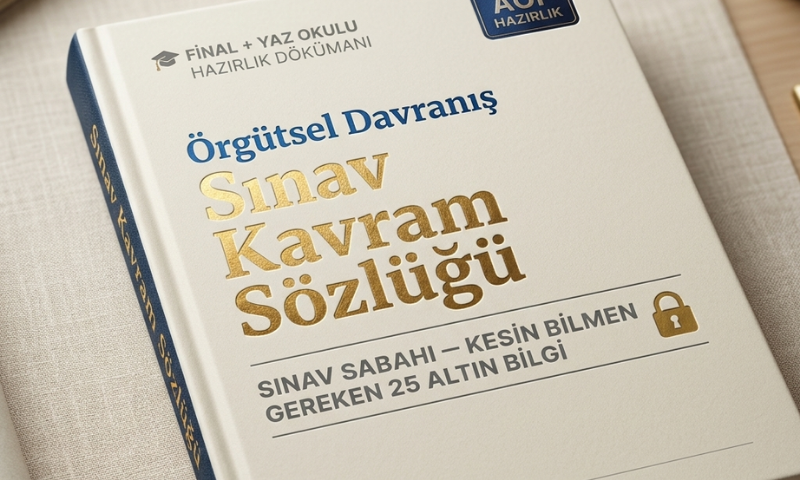
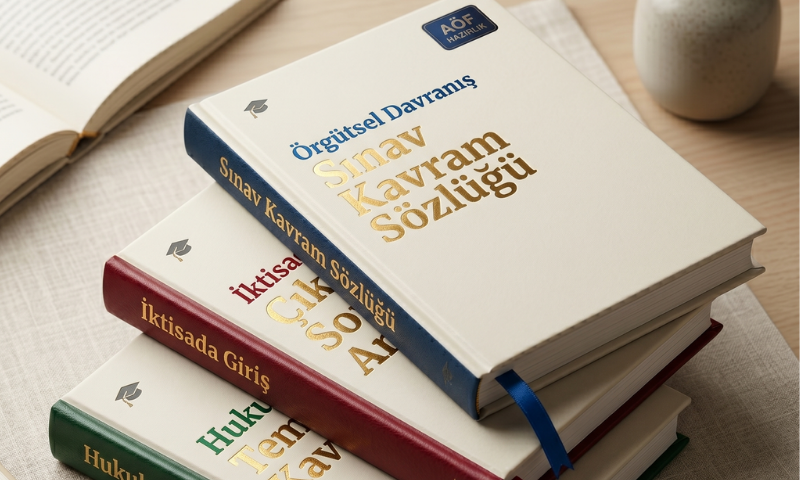
Admin panel and landing page updates

diff --git a/aofnotlar-admin.html b/aofnotlar-admin.html
@@ -369,6 +369,18 @@
       margin-bottom: 24px;
     }
 
+    .dashboard-split-grid {
+      display: grid;
+      grid-template-columns: 1fr 1fr;
+      gap: 20px;
+      margin-bottom: 24px;
+    }
+    @media (max-width: 768px) {
+      .dashboard-split-grid {
+        grid-template-columns: 1fr;
+      }
+    }
+
     .stat-card {
       background: white;
       border-radius: 12px;
@@ -515,6 +527,11 @@
     .badge-gray {
       background: #f3f4f6;
       color: #374151;
+    }
+
+    .badge-blue {
+      background: #eff6ff;
+      color: #1d4ed8;
     }
 
     /* ALERT */
@@ -1049,9 +1066,6 @@
       <button class="nav-item" data-page="feedback" onclick="navigate('feedback', this); closeSidebar()">
         <span class="nav-icon">💬</span> Geri Bildirimler
       </button>
-      <button class="nav-item" data-page="git-setup" onclick="navigate('git-setup', this); closeSidebar()">
-        <span class="nav-icon">🔧</span> Git Kurulum
-      </button>
       <button class="nav-item" data-page="pdf-courses" onclick="navigate('pdf-courses', this); closeSidebar()">
         <span class="nav-icon">📄</span> PDF Arşivi
       </button>
@@ -1100,20 +1114,22 @@
           </div>
         </div>
 
-        <div class="card">
-          <div class="card-title">📅 Son 7 Günlük Cevaplar</div>
-          <div id="activity-list">
-            <div class="empty-state">
-              <div class="empty-icon">⏳</div>Yükleniyor...
+        <div class="dashboard-split-grid">
+          <div class="card">
+            <div class="card-title">📈 Kategoriye Göre Çözülen Soru Sayısı</div>
+            <div id="cat-stats">
+              <div class="empty-state">
+                <div class="empty-icon">⏳</div>Yükleniyor...
+              </div>
             </div>
           </div>
-        </div>
 
-        <div class="card">
-          <div class="card-title">📈 Kategoriye Göre Çözülen Soru Sayısı</div>
-          <div id="cat-stats">
-            <div class="empty-state">
-              <div class="empty-icon">⏳</div>Yükleniyor...
+          <div class="card">
+            <div class="card-title">📅 Günlük Çözüm Detayı</div>
+            <div id="daily-cat-stats">
+              <div class="empty-state">
+                <div class="empty-icon">⏳</div>Yükleniyor...
+              </div>
             </div>
           </div>
         </div>
@@ -1499,111 +1515,7 @@
         </div>
       </div>
 
-      <!-- GIT KURULUM -->
-      <div class="page" id="page-git-setup">
-        <div class="page-header">
-          <div>
-            <div class="page-title">🔧 Git Kurulum</div>
-            <div class="page-subtitle">Kod güncellemeyi kolaylaştır — scp'den kurtar</div>
-          </div>
-        </div>
 
-        <div class="card">
-          <div class="card-title">🎯 Hedef</div>
-          <p style="font-size:13px; color:var(--muted); line-height:1.7;">
-            Şu an her değişiklik için <code>scp</code> kullanıyorsun. Git kurulunca:<br>
-            Mac'te değişiklik yap → <code>git push</code> → sunucu otomatik güncellenir.
-          </p>
-        </div>
-
-        <div class="card">
-          <div class="card-title">1⃣ Sunucuda Git Repo Kur</div>
-          <p style="font-size:12px; color:var(--muted); margin-bottom:8px;">SSH ile sunucuya bağlan ve şu komutları
-            çalıştır:</p>
-
-          <div class="step-row">
-            <span class="step-num">1</span>
-            <div class="step-content">
-              <div class="step-title">Git'i başlat</div>
-              <div class="step-desc">Proje dizinine git, repo oluştur</div>
-              <div class="code-block">cd /var/www/aofnotlar
-                git init
-                git add .
-                git commit -m "ilk commit"<button class="copy-btn" onclick="copyCode(this)">kopyala</button></div>
-            </div>
-          </div>
-
-          <div class="step-row">
-            <span class="step-num">2</span>
-            <div class="step-content">
-              <div class="step-title">GitHub'a bağla</div>
-              <div class="step-desc">GitHub'da yeni private repo aç (aofnotlar), sonra:</div>
-              <div class="code-block">git remote add origin https://github.com/KULLANICIADI/aofnotlar.git
-                git branch -M main
-                git push -u origin main<button class="copy-btn" onclick="copyCode(this)">kopyala</button></div>
-            </div>
-          </div>
-
-          <div class="step-row">
-            <span class="step-num">3</span>
-            <div class="step-content">
-              <div class="step-title">.gitignore oluştur</div>
-              <div class="step-desc">.env ve node_modules'ü dışarıda tut</div>
-              <div class="code-block">cat > /var/www/aofnotlar/.gitignore << 'EOF' node_modules/ frontend/node_modules/
-                  frontend/build/ .env *.log EOF<button class="copy-btn" onclick="copyCode(this)">kopyala</button></div>
-            </div>
-          </div>
-        </div>
-
-        <div class="card">
-          <div class="card-title">2⃣ Mac'te Kur</div>
-
-          <div class="step-row">
-            <span class="step-num">4</span>
-            <div class="step-content">
-              <div class="step-title">Mac'e clone et</div>
-              <div class="step-desc">Mac terminalinde:</div>
-              <div class="code-block">cd ~/Projects # veya istediğin dizin
-                git clone https://github.com/KULLANICIADI/aofnotlar.git
-                cd aofnotlar<button class="copy-btn" onclick="copyCode(this)">kopyala</button></div>
-            </div>
-          </div>
-        </div>
-
-        <div class="card">
-          <div class="card-title">3⃣ Otomatik Deploy Scripti (Sunucuda)</div>
-
-          <div class="step-row">
-            <span class="step-num">5</span>
-            <div class="step-content">
-              <div class="step-title">deploy.sh scripti oluştur</div>
-              <div class="step-desc">Sunucuda bu scripti çalıştırınca her şey güncellenir:</div>
-              <div class="code-block">cat > /var/www/aofnotlar/deploy.sh << 'EOF' #!/bin/bash
-                  echo "🔄 Deploy başlıyor..." cd /var/www/aofnotlar git pull origin main npm install --production cd
-                  frontend npm install npm run build cd .. pm2 restart aofnotlar echo "✅ Deploy tamamlandı!" EOF chmod
-                  +x /var/www/aofnotlar/deploy.sh<button class="copy-btn" onclick="copyCode(this)">kopyala</button>
-              </div>
-            </div>
-          </div>
-        </div>
-
-        <div class="card">
-          <div class="card-title">⚡ Günlük Kullanım</div>
-          <p style="font-size:12px; color:var(--muted); margin-bottom:8px;">Mac'te değişiklik yaptıktan sonra:</p>
-          <div class="code-block">## Mac'te:
-            git add .
-            git commit -m "değişiklik açıklaması"
-            git push
-
-            ## Sonra sunucuda (SSH ile):
-            cd /var/www/aofnotlar && ./deploy.sh<button class="copy-btn" onclick="copyCode(this)">kopyala</button></div>
-
-          <div class="alert alert-info" style="margin-top:12px;">
-            💡 <strong>İlerisi için:</strong> GitHub Actions ile push yapınca sunucu otomatik deploy olabilir. İstersen
-            o adımı da ekleriz.
-          </div>
-        </div>
-      </div>
 
     </div><!-- /main -->
   </div><!-- /app -->
@@ -1894,15 +1806,15 @@
           catEl.innerHTML = `<div class="empty-state"><div class="empty-icon">📭</div>Henüz veri yok</div>`;
         }
 
-        // Activity
-        const actEl = document.getElementById('activity-list');
-        if (data.recentActivity && data.recentActivity.length) {
-          actEl.innerHTML = `<div class="table-wrap"><table>
-        <thead><tr><th>Tarih</th><th>Cevap Sayısı</th></tr></thead>
-        <tbody>${data.recentActivity.map(r => `<tr><td>${r.date}</td><td>${r.count}</td></tr>`).join('')}</tbody>
+        // Daily stats
+        const dailyCatEl = document.getElementById('daily-cat-stats');
+        if (data.dailyCatStats && data.dailyCatStats.length) {
+          dailyCatEl.innerHTML = `<div class="table-wrap"><table>
+        <thead><tr><th>Tarih</th><th>Ders Adı</th><th>Çözülen Soru</th></tr></thead>
+        <tbody>${data.dailyCatStats.map(r => `<tr><td>${r.date}</td><td><strong>${r.name}</strong></td><td><span class="badge badge-blue">${r.count}</span></td></tr>`).join('')}</tbody>
       </table></div>`;
         } else {
-          actEl.innerHTML = `<div class="empty-state"><div class="empty-icon">📭</div>Henüz aktivite yok</div>`;
+          dailyCatEl.innerHTML = `<div class="empty-state"><div class="empty-icon">📭</div>Henüz veri yok</div>`;
         }
       } catch (e) {
         showMsg('dashboard-error', `❌ Yüklenemedi: ${e.message}`, 'error');

diff --git a/App.js b/App.js
@@ -437,7 +437,7 @@ export default function App() {
       <div style={s.container}>
         {showHeroBanner && (
           <div style={s.heroBanner} onClick={() => { setPrevScreen('home'); setScreen('product-detail'); }}>
-            <span style={s.heroText}>💡 Sınav Algoritmasına Göre Hazırlanmış Özet PDF'ini İncele ›</span>
+            <span style={s.heroText}>💡 Vakti Olmayanlara Özet Çalışma Sayfaları →</span>
             <button style={s.heroClose} onClick={(e) => { e.stopPropagation(); setShowHeroBanner(false); }} aria-label="Kapat">&times;</button>
           </div>
         )}
@@ -825,7 +825,7 @@ export default function App() {
               <div style={s.promoCardContent}>
                 <h3 style={s.promoCardTitle}>Sınavı Şansa Bırakma!</h3>
                 <p style={s.promoCardText}>
-                  Netlerini artırmak için Sınav Algoritmasına Göre Hazırlanmış Özet PDF'ini İncele ›
+                  Netlerini artırmak için Sınav Algoritmasına Göre Hazırlanmış Özet PDF'leri İncele ›
                 </p>
               </div>
             </div>
@@ -970,8 +970,24 @@ export default function App() {
             </div>
             
             <div style={s.cardTitle}>AÖF Sınavı Şansa Bırakılmaz!</div>
-            <div style={{ fontSize: 13, color: '#4b5563', lineHeight: 1.6, marginBottom: 20 }}>
+            <div style={{ fontSize: 13, color: '#4b5563', lineHeight: 1.6, marginBottom: 16 }}>
               Sınav algoritmasına göre hazırlanmış özet PDF notları ile derslerinizi kolayca geçin. Hangi konuların tekrar tekrar sorulduğu çıkmış sorulardan analiz edilerek bu evrak özenle hazırlandı.
+            </div>
+
+            <div style={{
+              display: 'inline-flex',
+              alignItems: 'center',
+              gap: 6,
+              background: '#eff6ff',
+              color: '#1d4ed8',
+              padding: '6px 12px',
+              borderRadius: 20,
+              fontSize: 12,
+              fontWeight: 700,
+              marginBottom: 18,
+              border: '1px solid rgba(29, 78, 216, 0.12)'
+            }}>
+              <span>📚</span> 10+ Aktif Ders Seçeneği
             </div>
 
             <div style={{ marginBottom: 20 }}>

diff --git a/shopier_promo_modules.html b/shopier_promo_modules.html
@@ -667,7 +667,7 @@
           <div class="preview-container" style="padding: 12px;">
             <!-- Render Banner -->
             <div class="aof-hero-banner" id="demoHeroBanner" onclick="alert('React uygulamanızda: setScreen(\'product-detail\') tetiklenecek')">
-              <span class="aof-hero-text">💡 Sınav Algoritmasına Göre Hazırlanmış Özet PDF'ini İncele ›</span>
+              <span class="aof-hero-text">💡 Vakti Olmayanlara Özet Çalışma Sayfaları →</span>
               <button class="aof-hero-close" onclick="event.stopPropagation(); resetDemoBanner()">&times;</button>
             </div>
           </div>
@@ -725,7 +725,7 @@
                 <div class="aof-card-content">
                   <h3 class="aof-card-title">Sınavı Şansa Bırakma!</h3>
                   <p class="aof-card-text">
-                    Netlerini artırmak için Sınav Algoritmasına Göre Hazırlanmış Özet PDF'ini İncele ›
+                    Netlerini artırmak için Sınav Algoritmasına Göre Hazırlanmış Özet PDF'leri İncele ›
                   </p>
                 </div>
               </div>
@@ -868,7 +868,7 @@
       // Modül 1 Code Template
       const m1Code = `<!-- Modül 1: İnce Tıklanabilir Şerit (React Entegrasyonu İçin) -->
 <div class="aof-hero-banner" id="aofHeroBanner" onClick={() => { setPrevScreen('home'); setScreen('product-detail'); }}>
-  <span class="aof-hero-text">💡 Sınav Algoritmasına Göre Hazırlanmış Özet PDF'ini İncele ›</span>
+  <span class="aof-hero-text">💡 Vakti Olmayanlara Özet Çalışma Sayfaları →</span>
   <button class="aof-hero-close" onClick={(e) => { e.stopPropagation(); setShowHeroBanner(false); }} aria-label="Kapat">&times;</button>
 </div>
 
@@ -930,7 +930,7 @@
     <div class="aof-card-content">
       <h3 class="aof-card-title">Sınavı Şansa Bırakma!</h3>
       <p class="aof-card-text">
-        Netlerini artırmak için Sınav Algoritmasına Göre Hazırlanmış Özet PDF'ini İncele ›
+        Netlerini artırmak için Sınav Algoritmasına Göre Hazırlanmış Özet PDF'leri İncele ›
       </p>
     </div>
   </div>

diff --git a/server.js b/server.js
@@ -354,14 +354,32 @@ app.get('/api/admin/stats', adminAuth, async (req, res) => {
       pool.query('SELECT COUNT(*) FROM user_answers'),
     ]);
     const catStats = await pool.query(`SELECT c.name, COUNT(ua.id)::int as count FROM categories c LEFT JOIN questions q ON q.category_id = c.id LEFT JOIN user_answers ua ON ua.question_id = q.id GROUP BY c.id, c.name ORDER BY count DESC`);
-    const recentActivity = await pool.query(`SELECT DATE(answered_at) as date, COUNT(*)::int as count FROM user_answers WHERE answered_at >= NOW() - INTERVAL '7 days' GROUP BY DATE(answered_at) ORDER BY date DESC`);
+    
+    // Her gün hangi dersten kaç soru çözüldü
+    const dailyCatStats = await pool.query(`
+      SELECT 
+        DATE(ua.answered_at) as date, 
+        c.name, 
+        COUNT(*)::int as count 
+      FROM user_answers ua 
+      JOIN questions q ON ua.question_id = q.id 
+      JOIN categories c ON q.category_id = c.id 
+      WHERE ua.answered_at >= NOW() - INTERVAL '30 days' 
+      GROUP BY DATE(ua.answered_at), c.name 
+      ORDER BY date DESC, count DESC
+    `);
+
     res.json({
       users: parseInt(users.rows[0].count),
       questions: parseInt(questions.rows[0].count),
       categories: parseInt(categories.rows[0].count),
       answers: parseInt(answers.rows[0].count),
       catStats: catStats.rows,
-      recentActivity: recentActivity.rows.map(r => ({ date: new Date(r.date).toLocaleDateString('tr'), count: r.count }))
+      dailyCatStats: dailyCatStats.rows.map(r => ({
+        date: new Date(r.date).toLocaleDateString('tr'),
+        name: r.name,
+        count: r.count
+      }))
     });
   } catch (e) { res.status(500).json({ error: e.message }); }
 });
